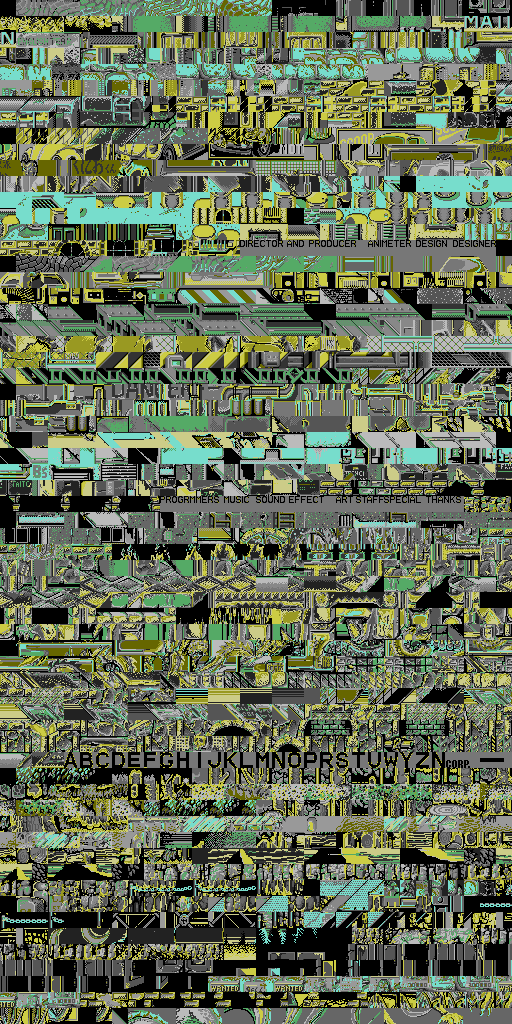
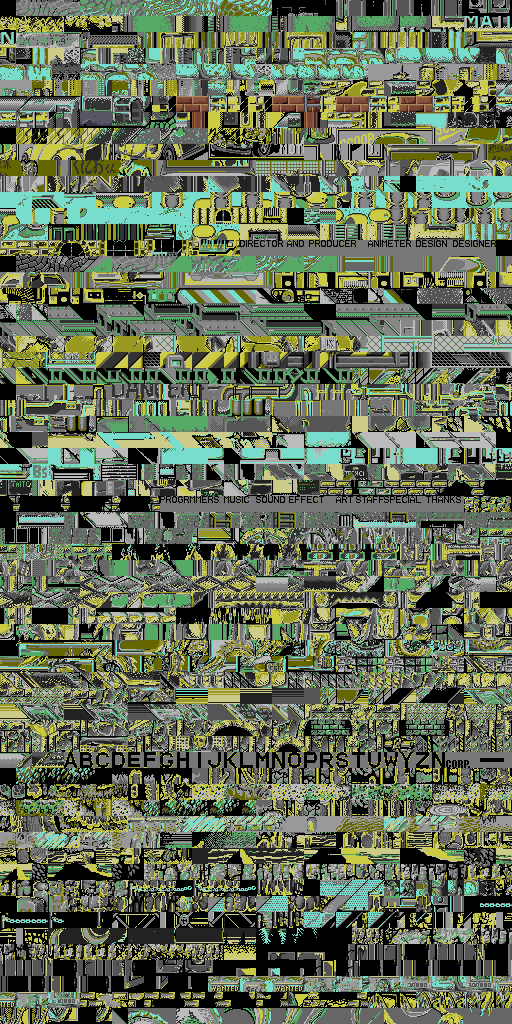
removed transitions!

diff --git a/assets/amiga/convert_graphics.py b/assets/amiga/convert_graphics.py
@@ -5,9 +5,9 @@ from shared import *
 
 sprite_context_list = ["intro","level_1","level_2","level_3","level_3_base","level_4"]
 bg_tile_context_list = ["level_1_1","level_1_2","level_2","level_3_1","level_3_2","level_3_base",
-"level_4","outro","level_23_transition"]
-sprite_context_list = ["level_1","level_2","level_3"]
-bg_tile_context_list = ["level_1_2"]
+"level_4","outro"]
+sprite_context_list = []
+bg_tile_context_list = ["level_2"]
 
 sprite_names = get_sprite_names()
 

diff --git a/assets/amiga/merge_used.py b/assets/amiga/merge_used.py
@@ -46,5 +46,5 @@ def merge(used_name,context,nb_items,nb_cluts,sprites=False,overwrite=False):
         f.write(contents)
 
 #merge("fg_used_tiles","game",0x400,8,overwrite=False)
-#merge("bg_used_tiles","level_1_2",0x800,8,overwrite=False)
-merge("used_sprites","level_2",0x1000,8,sprites=True,overwrite=False)
+merge("bg_used_tiles","level_2",0x800,8,overwrite=False)
+#merge("used_sprites","level_2",0x1000,8,sprites=True,overwrite=False)